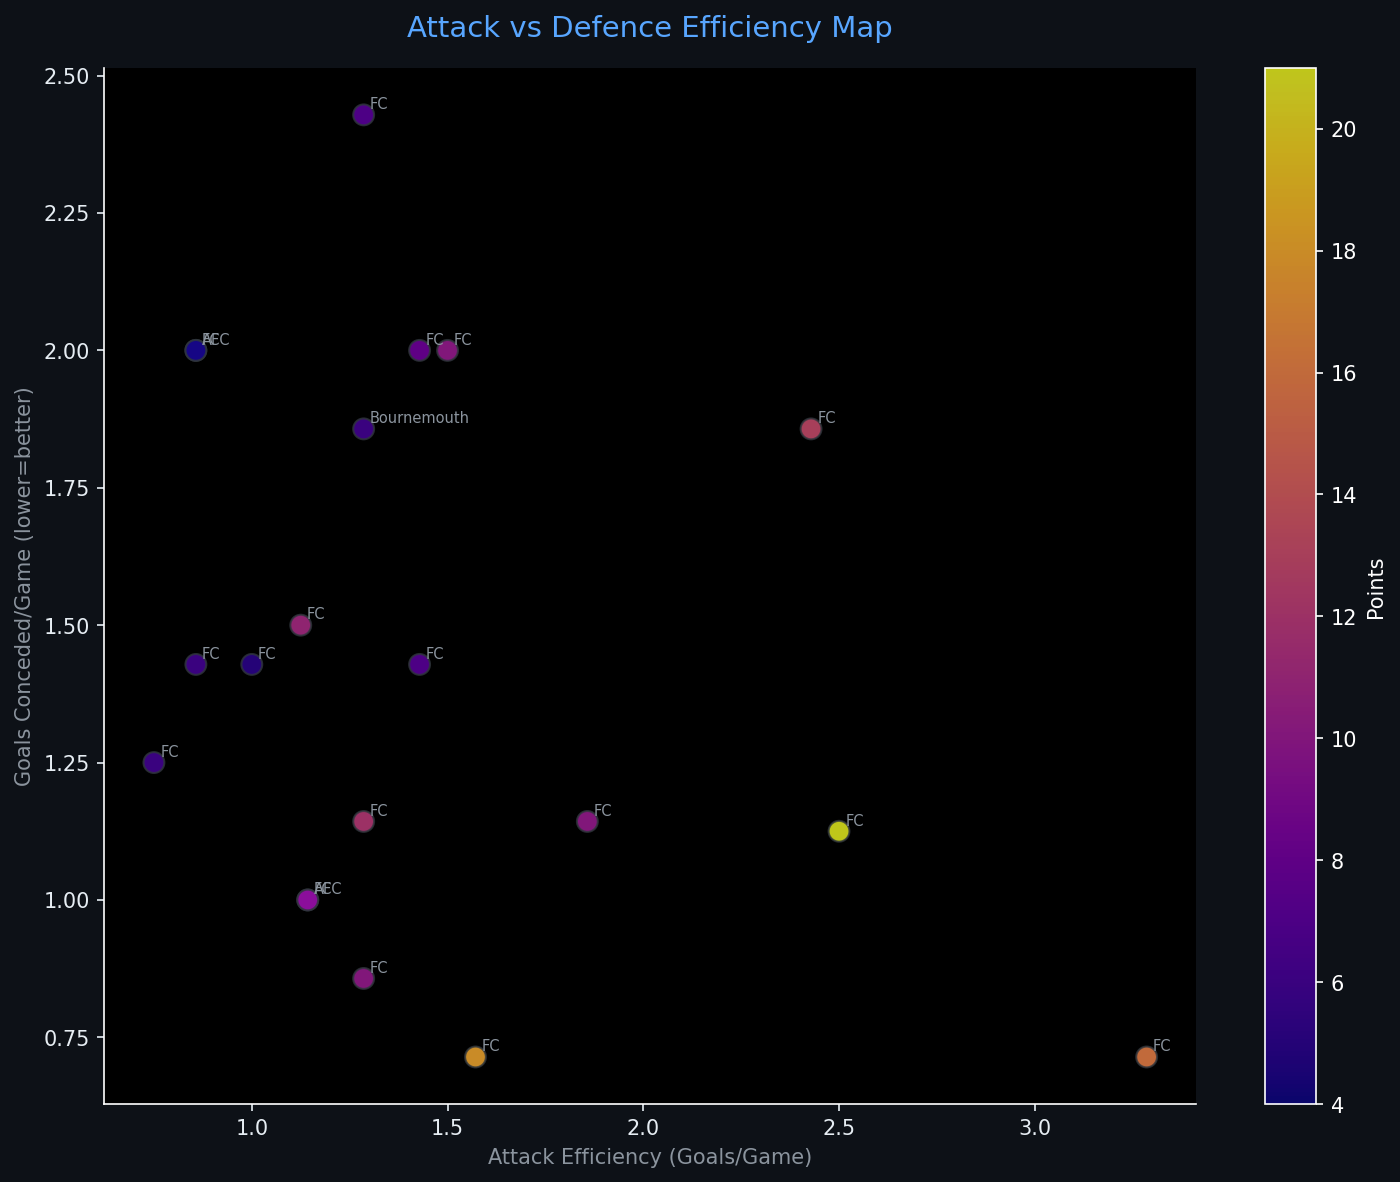
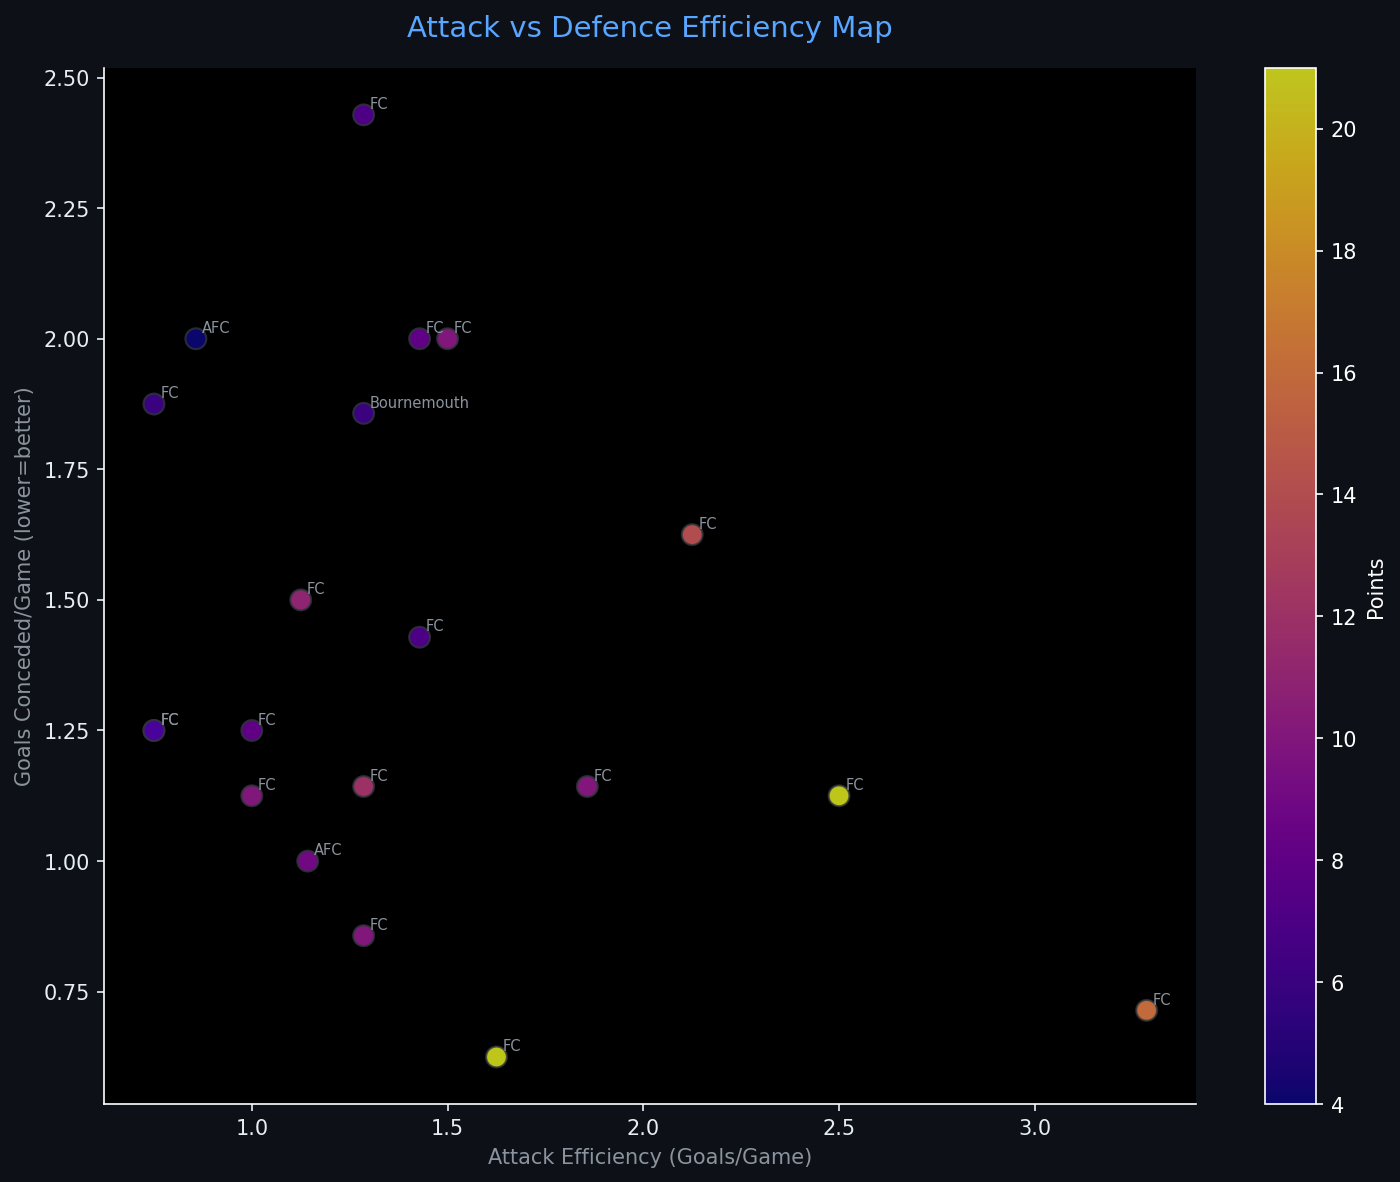
Automated ETL data update: 2026-10-24 17:08

diff --git a/reports/pipeline_report.html b/reports/pipeline_report.html
@@ -4,7 +4,7 @@
 <head>
     <meta charset="UTF-8">
     <meta name="viewport" content="width=device-width, initial-scale=1.0">
-    <title>Sports Data Pipeline Report — 2026-10-24 13:46</title>
+    <title>Sports Data Pipeline Report — 2026-10-24 17:08</title>
     <style>
         body { font-family: 'Segoe UI', sans-serif; background: #0d1117; color: #e6edf3; margin: 0; padding: 2rem; }
         h1   { color: #58a6ff; border-bottom: 1px solid #30363d; padding-bottom: 0.5rem; }
@@ -20,7 +20,7 @@
 </head>
 <body>
     <h1>⚽ Sports Data Pipeline — Automated Report</h1>
-    <p class="meta">Generated: 2026-10-24 13:46 UTC &nbsp;|&nbsp; Sport: <strong>football</strong> &nbsp;|&nbsp; Rows: <strong>20</strong></p>
+    <p class="meta">Generated: 2026-10-24 17:08 UTC &nbsp;|&nbsp; Sport: <strong>football</strong> &nbsp;|&nbsp; Rows: <strong>20</strong></p>
     <span class="badge">Pipeline v1.0.0</span>
     <h2>📊 Data Table</h2>
     <table class="dataframe data-table">
@@ -60,16 +60,16 @@
     <tr>
       <td>2</td>
       <td>Arsenal FC</td>
+      <td>8</td>
+      <td>21</td>
       <td>7</td>
-      <td>18</td>
-      <td>6</td>
       <td>0</td>
       <td>1</td>
-      <td>11</td>
+      <td>13</td>
       <td>5</td>
-      <td>0.857</td>
-      <td>2.571</td>
-      <td>0.829</td>
+      <td>0.875</td>
+      <td>2.625</td>
+      <td>0.871</td>
       <td>NaN</td>
     </tr>
     <tr>
@@ -90,15 +90,15 @@
     <tr>
       <td>4</td>
       <td>Chelsea FC</td>
-      <td>7</td>
-      <td>13</td>
+      <td>8</td>
+      <td>14</td>
       <td>4</td>
-      <td>1</td>
+      <td>2</td>
       <td>2</td>
       <td>17</td>
       <td>13</td>
-      <td>0.571</td>
-      <td>1.857</td>
+      <td>0.500</td>
+      <td>1.750</td>
       <td>0.631</td>
       <td>NaN</td>
     </tr>
@@ -165,16 +165,16 @@
     <tr>
       <td>9</td>
       <td>Everton FC</td>
-      <td>7</td>
+      <td>8</td>
       <td>10</td>
       <td>2</td>
       <td>4</td>
-      <td>1</td>
+      <td>2</td>
       <td>8</td>
-      <td>7</td>
-      <td>0.286</td>
-      <td>1.429</td>
-      <td>0.566</td>
+      <td>9</td>
+      <td>0.250</td>
+      <td>1.250</td>
+      <td>0.441</td>
       <td>NaN</td>
     </tr>
     <tr>
@@ -209,6 +209,21 @@
     </tr>
     <tr>
       <td>12</td>
+      <td>Fulham FC</td>
+      <td>8</td>
+      <td>8</td>
+      <td>2</td>
+      <td>2</td>
+      <td>4</td>
+      <td>8</td>
+      <td>10</td>
+      <td>0.250</td>
+      <td>1.000</td>
+      <td>0.390</td>
+      <td>NaN</td>
+    </tr>
+    <tr>
+      <td>13</td>
       <td>Newcastle United FC</td>
       <td>7</td>
       <td>8</td>
@@ -223,7 +238,7 @@
       <td>NaN</td>
     </tr>
     <tr>
-      <td>13</td>
+      <td>14</td>
       <td>Manchester United FC</td>
       <td>7</td>
       <td>7</td>
@@ -238,7 +253,22 @@
       <td>NaN</td>
     </tr>
     <tr>
-      <td>14</td>
+      <td>15</td>
+      <td>Tottenham Hotspur FC</td>
+      <td>8</td>
+      <td>7</td>
+      <td>1</td>
+      <td>4</td>
+      <td>3</td>
+      <td>6</td>
+      <td>10</td>
+      <td>0.125</td>
+      <td>0.875</td>
+      <td>0.265</td>
+      <td>NaN</td>
+    </tr>
+    <tr>
+      <td>16</td>
       <td>Crystal Palace FC</td>
       <td>7</td>
       <td>7</td>
@@ -253,7 +283,7 @@
       <td>NaN</td>
     </tr>
     <tr>
-      <td>15</td>
+      <td>17</td>
       <td>AFC Bournemouth</td>
       <td>7</td>
       <td>6</td>
@@ -268,7 +298,7 @@
       <td>NaN</td>
     </tr>
     <tr>
-      <td>16</td>
+      <td>18</td>
       <td>Nottingham Forest FC</td>
       <td>8</td>
       <td>6</td>
@@ -283,48 +313,18 @@
       <td>NaN</td>
     </tr>
     <tr>
-      <td>16</td>
-      <td>Tottenham Hotspur FC</td>
-      <td>7</td>
-      <td>6</td>
-      <td>1</td>
-      <td>3</td>
-      <td>3</td>
-      <td>6</td>
-      <td>10</td>
-      <td>0.143</td>
-      <td>0.857</td>
-      <td>0.265</td>
-      <td>NaN</td>
-    </tr>
-    <tr>
-      <td>18</td>
+      <td>19</td>
       <td>Coventry City FC</td>
-      <td>7</td>
+      <td>8</td>
       <td>6</td>
       <td>2</td>
       <td>0</td>
-      <td>5</td>
       <td>6</td>
-      <td>14</td>
-      <td>0.286</td>
-      <td>0.857</td>
-      <td>0.155</td>
-      <td>NaN</td>
-    </tr>
-    <tr>
-      <td>19</td>
-      <td>Fulham FC</td>
-      <td>7</td>
-      <td>5</td>
-      <td>1</td>
-      <td>2</td>
-      <td>4</td>
-      <td>7</td>
-      <td>10</td>
-      <td>0.143</td>
-      <td>0.714</td>
-      <td>0.329</td>
+      <td>6</td>
+      <td>15</td>
+      <td>0.250</td>
+      <td>0.750</td>
+      <td>0.138</td>
       <td>NaN</td>
     </tr>
     <tr>
@@ -362,7 +362,7 @@
         
         <tr><td>Null Values</td><td>90</td></tr>
         
-        <tr><td>Run Timestamp (UTC)</td><td>2026-10-24T13:46:37.729338</td></tr>
+        <tr><td>Run Timestamp (UTC)</td><td>2026-10-24T17:08:28.074478</td></tr>
         
         <tr><td>ML Features Ready</td><td>False</td></tr>
         
